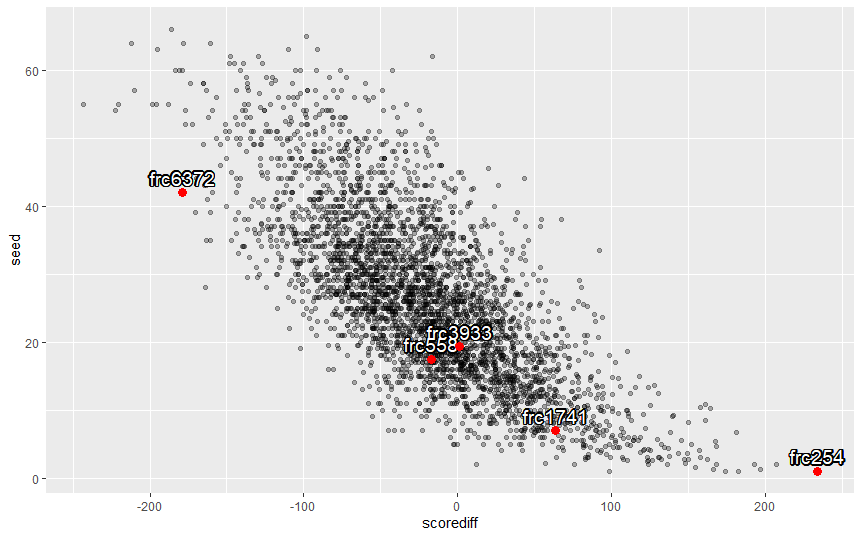
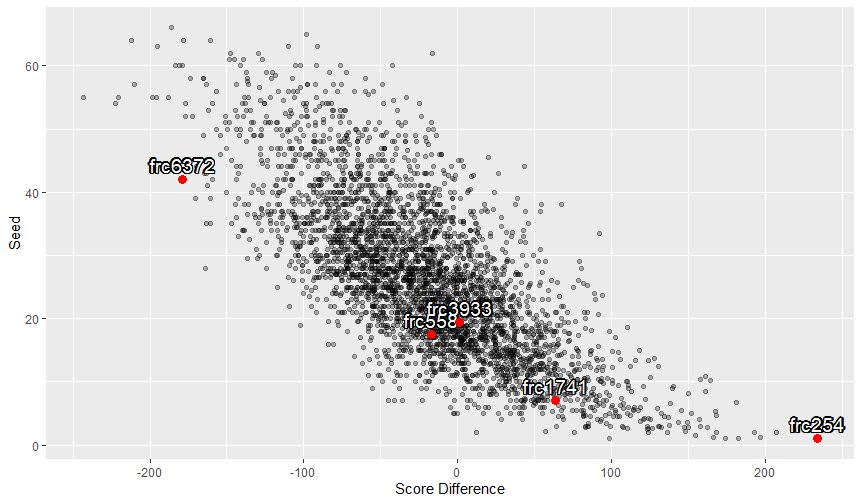
label the axes, some more writeup

diff --git a/class/csci489/blog/index.md b/class/csci489/blog/index.md
@@ -96,6 +96,8 @@ so the lowest rank is a range [figure that out?].
 *data from [thebluealliance](https://thebluealliance.com/apidocs/v3)*
 
 This chart is a bit more muddy due to the nature of the game.
+The blue line shows where Score&#160;=&#160;Opposing Score,
+teams below had a positive average score difference, teams above had a negative average score difference.
 If both alliances were able to score on their switch but never descored the opposing switch,
 then both alliances could receive a reasonable amount of points.
 Most strategies revolved around claiming ownership of the scale,
@@ -156,7 +158,7 @@ Each of these charts shows a ratio of the time that a team owned a switch or sca
 to the total amount of time that they played.
 For an alliance, the near switch is easiest to capture, the scale next, then the opposing switch.
 
-### [WIP] Switch Ownership Ratio
+### Switch Ownership Ratio
 
 ![Switch Ownership Ratio](/assets/image/csci489/ratio-near.png)
 *data from [thebluealliance](https://thebluealliance.com/apidocs/v3)*
@@ -167,16 +169,18 @@ Based on how early they were able to claim their switch,
 it makes sense that they have ownership of it for so much of their time.
 When teams controlled their switch for a greater portion of their time playing, they performed better.
 
-### [WIP] Scale Ownership Ratio
+### Scale Ownership Ratio
 
 ![Scale Ownership Ratio](/assets/image/csci489/ratio-scale.png)
 *data from [thebluealliance](https://thebluealliance.com/apidocs/v3)*
 
-???
-
+The scale is an interesting case because not all teams could reliably score on it.
+In this subset, this is 558 and 6372,
+although 558's shooter was normally able to score in the scale during autonomous.
+Because both alliances could score from the scale, in less one-sided matches it would tip back and forth between alliances.
 254 gained ownership during auto a lot, many times with two cubes.
 
-### [WIP] Opposing Switch Ownership Ratio
+### Opposing Switch Ownership Ratio
 
 ![Opposing Switch Ownership Ratio](/assets/image/csci489/ratio-far.png)
 *data from [thebluealliance](https://thebluealliance.com/apidocs/v3)*
@@ -188,6 +192,16 @@ making it a good distraction tactic for while trying to claim or defend the scal
 Teams that were better tended to claim the opposing switch.
 254 managed to take ownership of the opposing switch for a third of the time they were in a match,
 in contrast to 6372, where the opposing alliance owned their switch more often than 254 owned theirs.
+
+## Interesting Matches
+
+While going through and double-checking data, I found a handful of matches that are just kind of interesting.
+
+ * [6372 never actually claims their switch or the scale](https://youtu.be/IKreBfrdqWs)
+ * [254's second highest score difference, because their highest was just the other alliance getting penalties](https://youtu.be/kN4gUwIeJPM)
+ * [This match with 3933 had the scale balanced for a total of a minute, ending with a 3 point difference](https://youtu.be/gl9zqoan6tE)
+ * [1741's opponent scores very good (but because of penalties)](https://youtu.be/ICkl5ccKMIg)
+ * [Here is one of the few times that 558 actually uses their shooter](https://youtu.be/P8-ObVr5OOc)
 
 ## Citation
 
